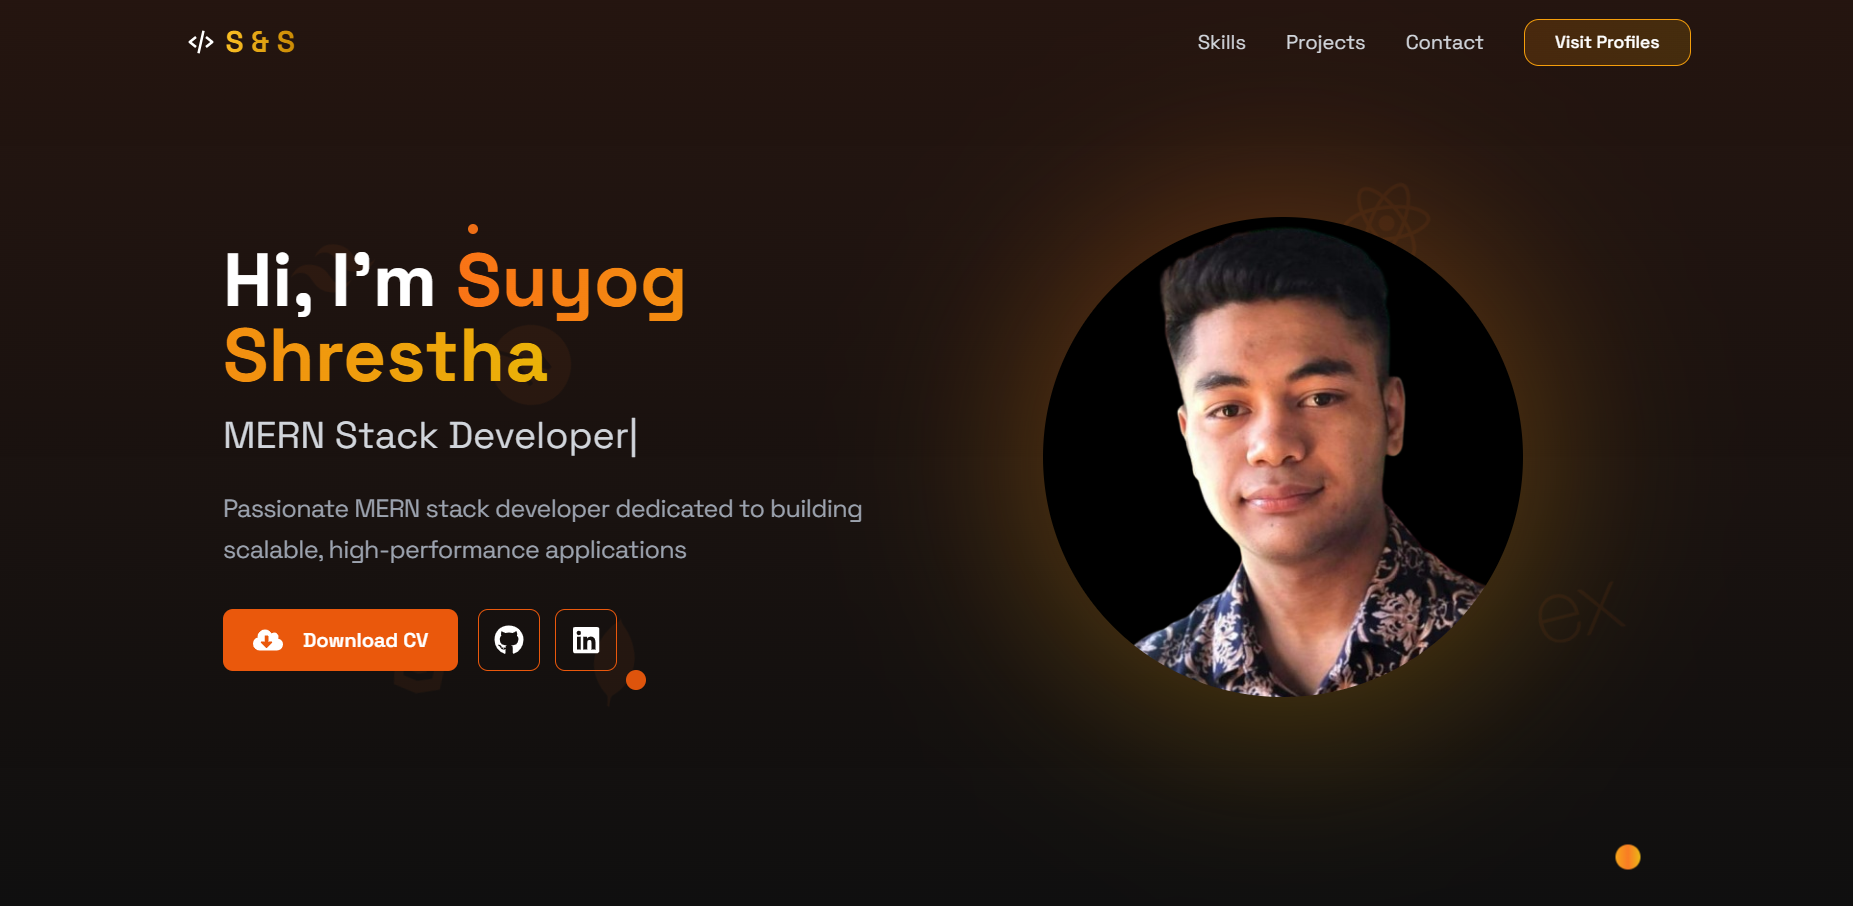
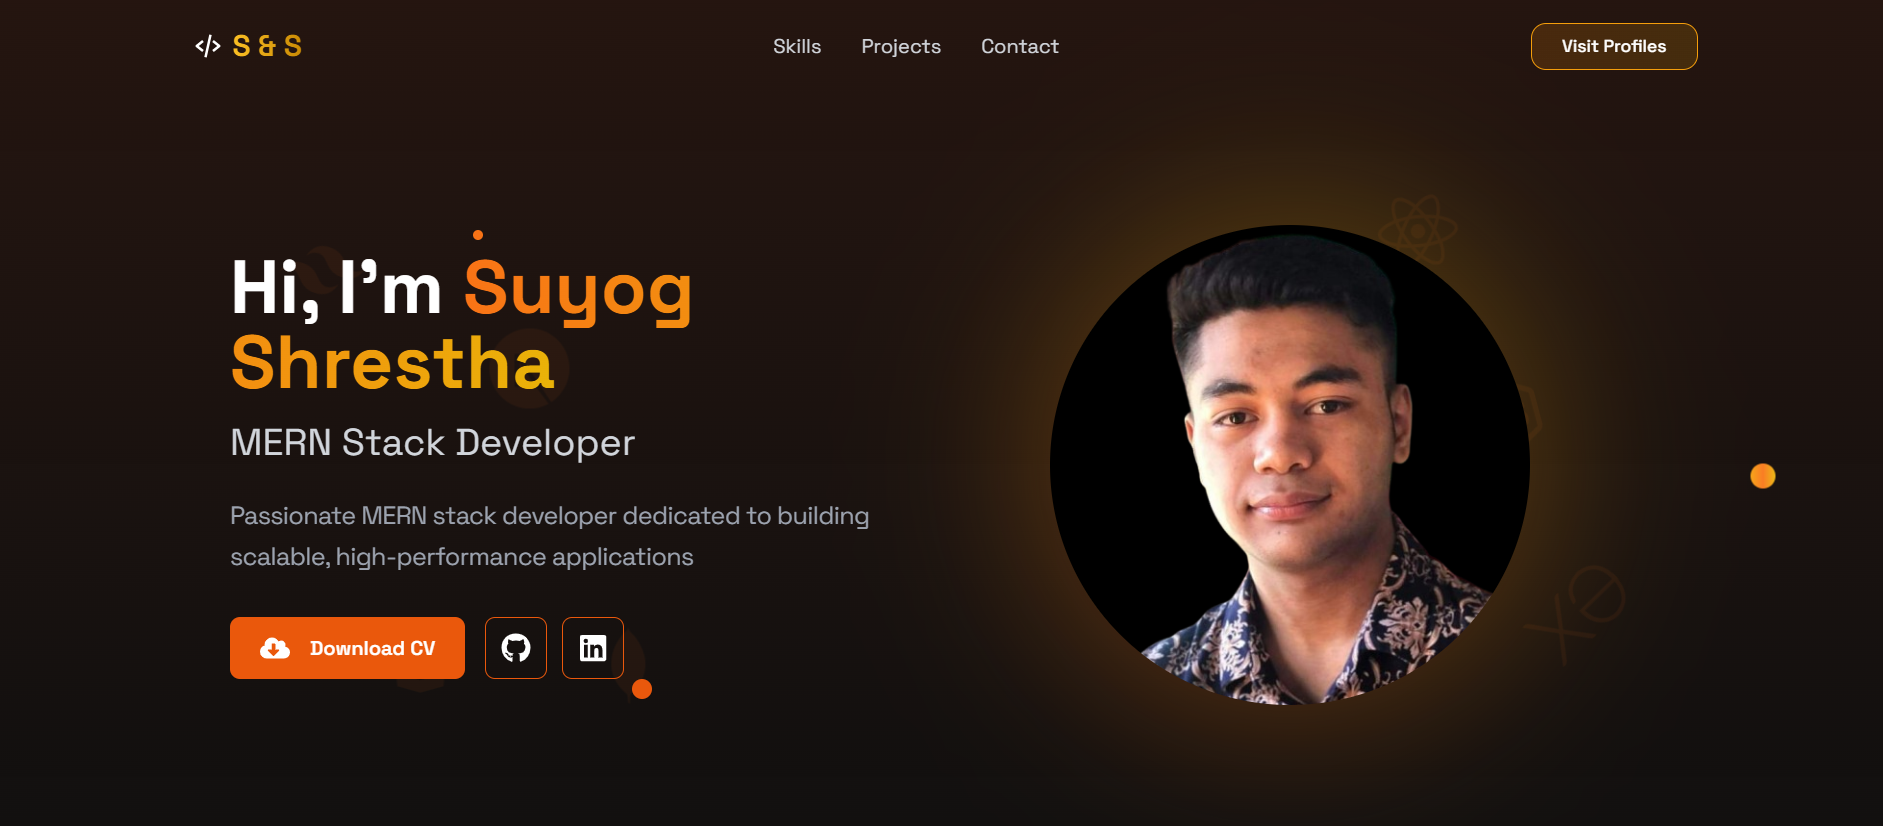
added lazy loading & useMemo

diff --git a/src/components/Navbar.jsx b/src/components/Navbar.jsx
@@ -17,12 +17,12 @@ const Navbar = () => {
     return () => window.removeEventListener("scroll", handleScroll);
   }, []);
 
-  const toggleNav = () => setNav(!nav);
-  const closeNav = () => setNav(false);
+  // Toggle Navigation
+  const toggleNav = () => setNav((prev) => !prev);
 
-  // Manual scroll fix
+  // Handle smooth scrolling & close mobile menu
   const handleScroll = (section) => {
-    closeNav();
+    toggleNav(); // Close menu when an item is clicked
     setTimeout(() => {
       const target = document.getElementById(section);
       if (target) {
@@ -31,6 +31,7 @@ const Navbar = () => {
     }, 300);
   };
 
+  // Reload Page when clicking on the Logo
   const handleLogoClick = (e) => {
     e.preventDefault();
     window.location.reload();
@@ -49,7 +50,7 @@ const Navbar = () => {
       <div className="h-[1px] w-full bg-gradient-to-r from-transparent via-blue-500/50 to-transparent" />
 
       <div className="max-w-[1300px] mx-auto flex justify-between items-center px-4 md:px-12 h-20">
-        {/* Logo with reload functionality */}
+        {/* Logo */}
         <motion.a
           href="/"
           onClick={handleLogoClick}
@@ -61,11 +62,6 @@ const Navbar = () => {
           <span className="ml-2 text-2xl font-bold bg-clip-text text-transparent bg-gradient-to-r from-amber-400 to-yellow-600">
             S & S
           </span>
-          <motion.div
-            className="absolute -inset-1 bg-gradient-to-r from-amber-600 to-yellow-600 rounded-lg opacity-0 group-hover:opacity-30 blur transition duration-500"
-            animate={{ scale: [1, 1.1, 1] }}
-            transition={{ duration: 2, repeat: Infinity }}
-          />
         </motion.a>
 
         {/* Desktop Menu */}
@@ -89,38 +85,28 @@ const Navbar = () => {
               </ScrollLink>
             </motion.li>
           ))}
-          <motion.li
-            initial={{ opacity: 0, y: -20 }}
-            animate={{ opacity: 1, y: 0 }}
-            transition={{ delay: 0.3 }}
-          >
-            <motion.a
-              href="https://me.suyogshr.in/"
-              target="_blank"
-              rel="noopener noreferrer"
-              className="relative inline-flex items-center px-6 py-2 text-sm font-medium text-white bg-gradient-to-r from-amber-600/20 to-yellow-600/20 
-                                     border border-amber-500 rounded-xl hover:from-amber-600/30 hover:to-yellow-600/30"
-              whileHover={{ scale: 1.05 }}
-              whileTap={{ scale: 0.95 }}
-            >
-              Visit Profiles
-              <motion.div className="absolute inset-0 rounded-xl bg-gradient-to-r from-amber-600 to-yellow-600 opacity-0 group-hover:opacity-20 blur transition duration-500" />
-            </motion.a>
-          </motion.li>
         </ul>
+        
+          <motion.a
+            href="https://me.suyogshr.in/"
+            target="_blank"
+            rel="noopener noreferrer"
+            className="inline-flex items-center px-6 py-2 text-sm font-medium text-white bg-gradient-to-r from-amber-600/20 to-yellow-600/20 
+              border border-amber-500 rounded-xl hover:from-amber-600/30 hover:to-yellow-600/30"
+            whileHover={{ scale: 1.05 }}
+            whileTap={{ scale: 0.95 }}
+          >
+            Visit Profiles
+          </motion.a>
 
         {/* Mobile Menu Button */}
         <motion.div
-          onClick={() => setNav(!nav)}
+          onClick={toggleNav}
           className="md:hidden z-50 cursor-pointer text-gray-200 hover:text-amber-400 transition-colors"
           whileHover={{ scale: 1.1 }}
           whileTap={{ scale: 0.9 }}
         >
-          {nav ? (
-            <AiOutlineClose size={25} className="text-gray-200" />
-          ) : (
-            <AiOutlineMenu size={25} className="text-gray-200" />
-          )}
+          {nav ? <AiOutlineClose size={25} /> : <AiOutlineMenu size={25} />}
         </motion.div>
 
         {/* Mobile Menu Overlay */}
@@ -132,15 +118,14 @@ const Navbar = () => {
               exit={{ opacity: 0 }}
               transition={{ duration: 0.2 }}
               className="fixed inset-0 bg-black/60 backdrop-blur-sm z-40"
-              onClick={() => setNav(false)}
+              onClick={toggleNav}
             />
           )}
         </AnimatePresence>
 
         {/* Mobile Menu */}
         <motion.div
-          className={`fixed right-0 top-0 w-[300px] h-screen bg-[#030014] z-40 p-8
-                              border-l border-amber-500/20 backdrop-blur-lg`}
+          className={`fixed right-0 top-0 w-[300px] h-screen bg-[#030014] z-40 p-8 border-l border-amber-500/20 backdrop-blur-lg`}
           initial={{ x: "100%" }}
           animate={{ x: nav ? 0 : "100%" }}
           transition={{ type: "spring", damping: 20 }}
@@ -158,23 +143,19 @@ const Navbar = () => {
                   smooth={true}
                   offset={-70}
                   duration={500}
-                  onClick={() => setNav(false)}
+                  onClick={() => handleScroll(section)}
                   className="text-2xl text-gray-300 hover:text-amber-400 transition-colors duration-300 block"
                 >
                   {section.charAt(0).toUpperCase() + section.slice(1)}
                 </ScrollLink>
               </motion.li>
             ))}
-            <motion.li
-              initial={{ opacity: 0, x: 20 }}
-              animate={{ opacity: 1, x: 0 }}
-              transition={{ delay: 0.3 }}
-            >
+            <motion.li>
               <motion.a
                 href="https://suystha7.bio.link/"
                 target="_blank"
                 rel="noopener noreferrer"
-                onClick={() => setNav(false)}
+                onClick={toggleNav}
                 className="inline-block px-6 py-3 text-lg font-medium text-white bg-gradient-to-r from-amber-600/20 to-yellow-600/20 
                                          border border-amber-500 rounded-xl hover:from-amber-600/30 hover:to-yellow-600/30"
                 whileHover={{ scale: 1.05 }}

diff --git a/src/index.css b/src/index.css
@@ -1,4 +1,4 @@
-@import url('https://fonts.googleapis.com/css2?family=Inter:wght@100..900&family=Noto+Sans:ital@0;1&family=Space+Grotesk:wght@300..700&display=swap');
+@import url("https://fonts.googleapis.com/css2?family=Inter:wght@100..900&family=Noto+Sans:ital@0;1&family=Space+Grotesk:wght@300..700&display=swap");
 @tailwind base;
 @tailwind components;
 @tailwind utilities;
@@ -8,14 +8,17 @@
 }
 
 /* Core fixes for horizontal scroll */
-*, *::before, *::after {
+*,
+*::before,
+*::after {
   box-sizing: border-box;
   margin: 0;
   padding: 0;
 }
 
 /* Prevent horizontal scrolling */
-html, body {
+html,
+body {
   max-width: 100vw;
   overflow-x: clip;
   position: relative;
@@ -33,17 +36,16 @@ body {
 }
 
 h2 {
-  @apply text-xl md:text-4xl
+  @apply text-xl md:text-4xl;
 }
 
 p {
-  @apply text-xl tracking-tight leading-relaxed
+  @apply text-xl tracking-tight leading-relaxed;
 }
 
 span {
-  @apply text-purple-500
+  @apply text-purple-500;
 }
-
 
 .shiny-effect {
   position: absolute;
@@ -54,7 +56,7 @@ span {
 }
 
 .bg-primary-color {
-    @apply bg-red-500
+  @apply bg-red-500;
 }
 
 html {
@@ -64,7 +66,9 @@ html {
 
 @layer utilities {
   @media (min-width: 1024px) {
-    body, a, button {
+    body,
+    a,
+    button {
       cursor: none;
     }
   }
@@ -75,9 +79,15 @@ html {
 }
 
 @keyframes float {
-  0% { transform: translateY(0px); }
-  50% { transform: translateY(-20px); }
-  100% { transform: translateY(0px); }
+  0% {
+    transform: translateY(0px);
+  }
+  50% {
+    transform: translateY(-20px);
+  }
+  100% {
+    transform: translateY(0px);
+  }
 }
 
 .float {
@@ -120,7 +130,8 @@ html {
 }
 
 /* Add smooth transitions for all interactive elements */
-a, button {
+a,
+button {
   transition: all 0.3s ease;
 }
 

diff --git a/src/App.jsx b/src/App.jsx
@@ -1,6 +1,8 @@
 import { useState, useEffect, Suspense, lazy, useMemo } from "react";
 import { motion, useScroll, useSpring } from "framer-motion";
 import Loading from "./components/Loading";
+import { FaCaretUp } from "react-icons/fa";
+import EducationTimeline from "./components/EducationTimeline";
 
 // Lazy load components
 const Hero = lazy(() => import("./components/Hero"));
@@ -15,6 +17,7 @@ const Experience = lazy(() => import("./components/Experience"));
 const App = () => {
   const [loading, setLoading] = useState(true);
   const { scrollYProgress } = useScroll();
+
   const scaleX = useSpring(scrollYProgress, {
     stiffness: 100,
     damping: 30,
@@ -36,6 +39,7 @@ const App = () => {
   }, []);
 
   const memoizedLoadingScreen = useMemo(() => <Loading />, []);
+
   const memoizedLayout = useMemo(() => {
     return (
       <div className="min-h-screen bg-[#0f0f0f]">
@@ -47,12 +51,21 @@ const App = () => {
           <Cursor />
           <Navbar />
           <Hero />
-          <Experience />
           <Skills />
+          <Experience />
           <Portfolio />
+          <EducationTimeline />
           <Contact />
           <Footer />
         </Suspense>
+
+        {/* Scroll to Top Button */}
+        <motion.button
+          onClick={() => window.scrollTo({ top: 0, behavior: "smooth" })}
+          className="fixed bottom-8 right-8 bg-amber-600 text-white p-3 rounded-full shadow-lg animate-bounce"
+        >
+          <FaCaretUp className="w-5 h-5" />
+        </motion.button>
       </div>
     );
   }, [scaleX]);
